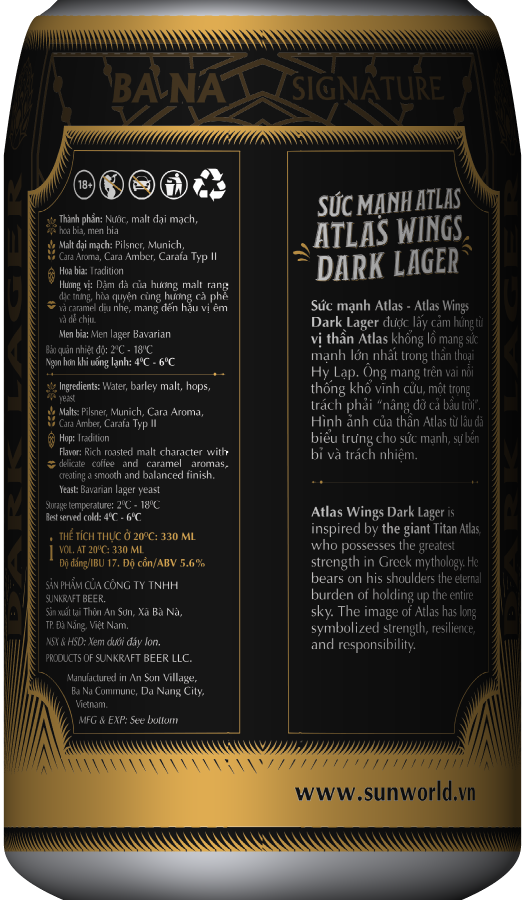
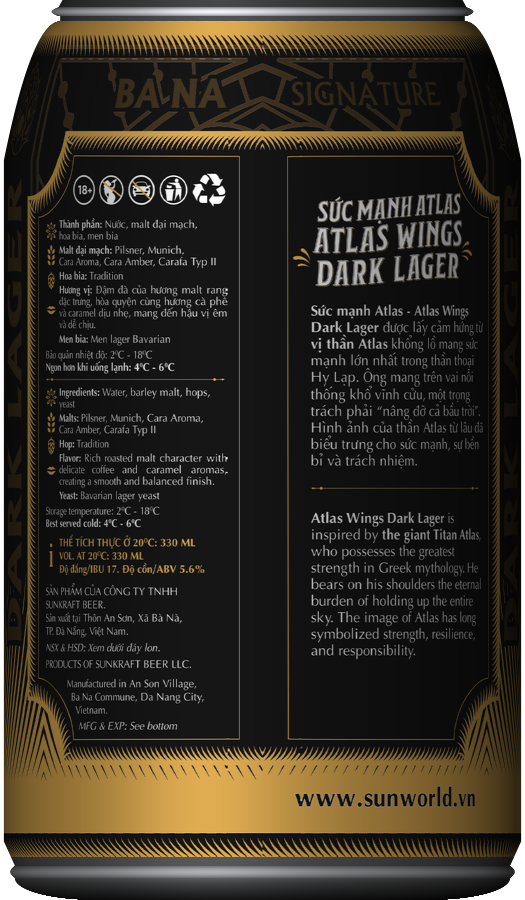
Lon bia: het nhoe o hai hong, dung lai dau va day lon
Khoa chi ra ba cho: dau lon va day lon chang giong lon bia, con hai hong
thi nhoe.

HAI HONG NHOE - lay mau sai chu khong phai thieu do phan giai.
Cang ra men lon, be mat cang nghieng: mot cot diem anh sat men gom toi gan
mot phan tu vong nhan, tuc hang tram cot cua anh goc. Ban truoc cham mot
diem giua khoang do (lay day them 6 mau roi trung binh) nen moi hang trung
mot cho khac nhau - ra vet soc doc lem nhem.
Nay tinh dung hai men goc cua tung diem anh roi lay TRUNG BINH TOAN BO cac
cot nam giua. Lam bang bang cong don theo chieu ngang nen khoang rong bao
nhieu cung chi hai phep tru, khong ton hon cham mot diem. Bo luon buoc dung
anh gap sau lan roi thu nho.

DAU VA DAY LON - truoc chi co nhan va nhom tron nen ra hai khoi xam det.
Nay dung theo dung net cua lon that: mep mieng toi, vanh sang loang, ranh
toi ngan cach vanh voi co; duoi day lat nguoc lai, roi day cuon vao theo mot
cung tron va chim dan vao bong. May dai nay chi day vai milimet nhung chinh
chung lam mat doc ra la cai lon.

Vien lon tinh do phu thang thay vi lay mau day, nen min ca o cho ban kinh
doi dot ngot (ranh mieng, vanh day).

Co lon thop 17,81mm, vanh mieng 26mm tren than 33,1mm - dung ti le lon 330ml.

Changed region(s): [[0.0, 0.0, 1.0, 1.0], [0.579, 0.56, 0.9143, 0.7467]]

diff --git a/scripts/dung-lon-tu-nhan.py b/scripts/dung-lon-tu-nhan.py
@@ -53,7 +53,26 @@ SAI_SO_MM = 1.5
 # Lon 330ml tieu chuan.
 LON_CAO_MM = 115.2
 BAN_KINH_MM = NHAN_RONG_MM / (2 * math.pi)  # 33.1 mm, suy tu chinh chu vi nhan
-NHAN_DINH_MM = 2.0                          # nhan bat dau cach dinh lon 2mm
+
+"""
+MOC CAO DO CUA CAC PHAN TREN LON, tinh tu dinh xuong (mm).
+
+Ban truoc chi co "nhan" va "nhom tron", nen hai dau lon ra hai khoi xam det -
+Khoa noi dung: chang giong lon bia gi ca. Lon that co nhung chi tiet rat nho
+nhung mat nhan ra ngay: mep mieng toi, ngay duoi la vanh sang loang, roi mot
+ranh toi ngan cach vanh voi co lon; duoi day cung vay, mot ranh toi, mot vanh
+sang, roi day lom vao va toi han.
+
+May dai nay chi day vai milimet nhung chinh chung lam cho khoi kim loai doc ra
+la mot cai lon chu khong phai mot ong tru.
+"""
+MEP_MIENG_MM = 0.9      # mep tren cung, nhin nghieng thay toi
+VANH_TREN_MM = 2.1      # vanh mieng sang loang
+RANH_TREN_MM = 2.7      # ranh toi duoi vanh
+NHAN_DINH_MM = 2.7      # nhan bat dau ngay duoi ranh
+NHAN_CUOI_MM = NHAN_DINH_MM + NHAN_CAO_MM   # 109,7
+RANH_DUOI_MM = NHAN_CUOI_MM + 1.1           # ranh toi cuoi than
+VANH_DUOI_MM = RANH_DUOI_MM + 1.6           # vanh day sang
 CO_HET_MM = NHAN_DINH_MM + 17.81            # 17,81mm o co, dung nhu file ghi
 
 # ------------------------------------------------------------------- bong sang
@@ -91,8 +110,6 @@ CA SAU (ba loai bia, moi loai mat truoc va mat sau) truoc khi ai kip bam gi.
 Vy dung 3G thi do la gan nam giay nhin man hinh trong.
 """
 CAO_PX = 900
-SS = 6   # lay mau day them theo chieu ngang, roi thu nho lai
-SSY = 2
 
 PX_MM = CAO_PX / LON_CAO_MM
 BAN_KINH_PX = BAN_KINH_MM * PX_MM
@@ -109,25 +126,42 @@ def ban_kinh_theo_hang(y_mm):
     """
     r = np.full_like(y_mm, BAN_KINH_MM, dtype=np.float64)
 
-    # Vanh mieng lon.
-    m = y_mm < 1.0
-    r[m] = 26.2 + 1.0 * (y_mm[m] / 1.0)
+    # Mep mieng: vanh nhom cuon lai, nho nhat lon.
+    m = y_mm < MEP_MIENG_MM
+    r[m] = 25.6 + 0.5 * (y_mm[m] / MEP_MIENG_MM)
 
-    # Vai lon: no ra rat nhanh tu vanh sang co.
-    m = (y_mm >= 1.0) & (y_mm < NHAN_DINH_MM)
-    t = (y_mm[m] - 1.0) / (NHAN_DINH_MM - 1.0)
-    r[m] = 27.2 + (28.6 - 27.2) * t
+    # Vanh mieng: phinh ra mot chut roi thot lai - do la net cuon cua vanh.
+    m = (y_mm >= MEP_MIENG_MM) & (y_mm < VANH_TREN_MM)
+    t = (y_mm[m] - MEP_MIENG_MM) / (VANH_TREN_MM - MEP_MIENG_MM)
+    r[m] = 26.1 + 0.9 * np.sin(t * math.pi)
+
+    # Ranh duoi vanh: thot vao, cho hep nhat cua ca cai lon.
+    m = (y_mm >= VANH_TREN_MM) & (y_mm < RANH_TREN_MM)
+    r[m] = 25.9
 
     # Co lon: 17,81mm dung nhu file bao bi ghi, no dan ra bang than.
     m = (y_mm >= NHAN_DINH_MM) & (y_mm < CO_HET_MM)
     t = (y_mm[m] - NHAN_DINH_MM) / (CO_HET_MM - NHAN_DINH_MM)
     # Duong cong lom, khong phai duong thang: vai lon that phinh dan.
-    r[m] = 28.6 + (BAN_KINH_MM - 28.6) * np.sqrt(t)
+    r[m] = 25.9 + (BAN_KINH_MM - 25.9) * np.sqrt(t)
 
-    # Day lon.
-    m = y_mm >= 108.0
-    t = np.clip((y_mm[m] - 108.0) / (LON_CAO_MM - 108.0), 0, 1)
-    r[m] = BAN_KINH_MM - (BAN_KINH_MM - 25.5) * (t ** 2.2)
+    # Goc duoi cua than, ngay truoc ranh day.
+    m = (y_mm >= NHAN_CUOI_MM - 2.0) & (y_mm < RANH_DUOI_MM)
+    t = (y_mm[m] - (NHAN_CUOI_MM - 2.0)) / (RANH_DUOI_MM - (NHAN_CUOI_MM - 2.0))
+    r[m] = BAN_KINH_MM - 1.4 * t
+
+    # Ranh day roi vanh day: cung mot net cuon nhu tren mieng, lat nguoc lai.
+    m = (y_mm >= RANH_DUOI_MM) & (y_mm < VANH_DUOI_MM)
+    t = (y_mm[m] - RANH_DUOI_MM) / (VANH_DUOI_MM - RANH_DUOI_MM)
+    r[m] = 31.7 + 0.6 * np.sin(t * math.pi)
+
+    # Day lon lom vao: thot rat nhanh, nen mat doc ra la mat day chu khong
+    # phai lon bi cat cut.
+    m = y_mm >= VANH_DUOI_MM
+    t = np.clip((y_mm[m] - VANH_DUOI_MM) / (LON_CAO_MM - VANH_DUOI_MM), 0, 1)
+    # Cung tron chu khong phai ham mu: ham mu cho ra day gan vuong, con day lon
+    # that cuon vao theo mot cung.
+    r[m] = 31.7 * (1.0 - 0.32 * (1.0 - np.sqrt(np.maximum(0.0, 1.0 - t * t))))
 
     return r
 
@@ -266,56 +300,130 @@ def dung_lon(nhan_rgb, phi):
     a = beta + phi. Nhan la mot vong 360 do nen cot can lay la
     ((a/2pi) + 0.5) mod 1 - cong 0,5 de goc 0 roi vao GIUA o nhan, tuc mat
     truoc cua lon.
+
+    LAY TRUNG BINH CA KHOANG GOC MA MOT DIEM ANH CHE, khong lay mau tai mot
+    diem. Day la cho ban truoc lam sai va sinh ra vet nhoe o hai men.
+
+    Cang ra men lon, be mat cang nghieng: mot cot diem anh o sat men gom toi
+    gan mot phan tu vong nhan, tuc hang tram cot cua anh nhan goc. Cham mot
+    diem giua khoang do thi moi hang lay trung mot cho khac nhau - ra vet soc
+    doc lem nhem, dung thu Khoa goi la "nhoe". Lay day them vai mau roi trung
+    binh cung khong cuu duoc: vai mau tren hang tram cot van la lay bua.
+
+    Cach dung: tinh dung hai men goc cua tung diem anh roi lay TRUNG BINH TOAN
+    BO cac cot nhan nam giua hai men do. Lam bang bang cong don theo chieu
+    ngang nen du khoang rong bao nhieu cung chi hai phep tru - khong ton them
+    gi so voi cham mot diem.
     """
     Hn, Wn = nhan_rgb.shape[:2]
 
-    hs = CAO_PX * SSY
-    ws = RONG_PX * SS
-    y_mm = (np.arange(hs) + 0.5) / hs * LON_CAO_MM
-    r_mm = ban_kinh_theo_hang(y_mm)
-    r_px = (r_mm * PX_MM * SS)[:, None]
+    # ---- 1. Ep anh nhan ve dung so hang no chiem tren lon ----
+    # Lam mot lan bang LANCZOS, thay vi lay bua mot hang cho moi hang man hinh.
+    so_hang_nhan = max(2, int(round(NHAN_CAO_MM * PX_MM)))
+    nhan_hang = np.asarray(
+        Image.fromarray(nhan_rgb).resize(
+            (Wn, so_hang_nhan), Image.Resampling.LANCZOS
+        ),
+        dtype=np.float64,
+    )
 
-    x = (np.arange(ws) + 0.5) - ws / 2.0
-    s = np.clip(x[None, :] / r_px, -1.0, 1.0)
-    trong = np.abs(x[None, :]) <= r_px
+    # ---- 2. Bang cong don theo chieu ngang, de trung binh mot khoang bat ky ----
+    cong_don = np.zeros((so_hang_nhan, Wn + 1, 3), dtype=np.float64)
+    np.cumsum(nhan_hang, axis=1, out=cong_don[:, 1:, :])
+    tong_hang = cong_don[:, -1, :]          # tong ca vong nhan, cho luc vong qua men
 
-    beta = np.arcsin(s)
-    a = beta + phi
-    u = (((a / (2 * math.pi)) + 0.5) % 1.0) * (Wn - 1)
+    # ---- 3. Luoi diem anh dau ra ----
+    y_mm = (np.arange(CAO_PX) + 0.5) / CAO_PX * LON_CAO_MM
+    r_px = (ban_kinh_theo_hang(y_mm) * PX_MM)[:, None]
 
-    # Hang cua nhan: chi phan than lon moi co nhan.
-    v = (y_mm - NHAN_DINH_MM) / NHAN_CAO_MM
-    co_nhan = (v >= 0) & (v <= 1)
-    vi = np.clip((v * (Hn - 1)).astype(np.int32), 0, Hn - 1)
+    x = (np.arange(RONG_PX) + 0.5) - RONG_PX / 2.0
+    x = x[None, :]
 
-    ui = u.astype(np.int32)
-    mau = nhan_rgb[vi[:, None], ui]           # (hs, ws, 3)
+    # Hai men cua tung diem anh, khong phai tam diem anh.
+    s_giua = np.clip(x / r_px, -1.0, 1.0)
+    s_trai = np.clip((x - 0.5) / r_px, -1.0, 1.0)
+    s_phai = np.clip((x + 0.5) / r_px, -1.0, 1.0)
+
+    beta = np.arcsin(s_giua)
+    a_trai = np.arcsin(s_trai) + phi
+    a_phai = np.arcsin(s_phai) + phi
+
+    # Doi ra don vi "cot cua anh nhan".
+    u_trai = (((a_trai / (2 * math.pi)) + 0.5) % 1.0) * Wn
+    rong = (a_phai - a_trai) / (2 * math.pi) * Wn      # luon >= 0
+    u_phai = u_trai + rong
+
+    i0 = np.clip(np.floor(u_trai).astype(np.int64), 0, Wn)
+    i1 = np.clip(np.ceil(u_phai).astype(np.int64), 0, 2 * Wn)
+    # Khoang hep hon mot cot thi van phai lay tron mot cot.
+    i1 = np.maximum(i1, i0 + 1)
+
+    hang = np.clip(
+        ((y_mm - NHAN_DINH_MM) / NHAN_CAO_MM * (so_hang_nhan - 1)),
+        0,
+        so_hang_nhan - 1,
+    ).astype(np.int64)[:, None]
+    hang = np.broadcast_to(hang, i0.shape)
+
+    vong = i1 > Wn                                    # khoang vat qua men phai
+    i1_kep = np.where(vong, Wn, i1)
+    i1_du = np.where(vong, i1 - Wn, 0)
+
+    tong = cong_don[hang, i1_kep] - cong_don[hang, i0]
+    tong = tong + np.where(
+        vong[..., None], cong_don[hang, i1_du] - cong_don[hang, 0], 0.0
+    )
+    dem = (i1_kep - i0) + i1_du
+    mau = tong / dem[..., None]
+
+    # ---- 4. Vanh mieng va day lon: khong co nhan, la nhom tran ----
+    co_nhan = (y_mm >= NHAN_DINH_MM) & (y_mm <= NHAN_CUOI_MM)
+    nhom = np.array([206, 208, 213], dtype=np.float64)
+    mau = np.where(co_nhan[:, None, None], mau, nhom)
 
     """
-    VANH MIENG VA DAY LON.
+    DAI TOI VA DAI SANG O HAI DAU.
 
-    Hai phan nay khong co nhan. De mau nhom tron mot mau thi ra hai khoi xam
-    det, nhin nhu lon bi cat cut. Them mot dai toi dan ve sat mep tren va mep
-    duoi thi mat doc ra ngay la vanh tron nhin hoi cheo.
+    Chi doi ban kinh thoi thi hai dau van la hai khoi xam det. Lon that co mot
+    mep toi o tren cung, mot vanh sang ngay duoi, mot ranh toi ngan cach vanh
+    voi co - va o day thi dung nhu vay lat nguoc. May dai nay chi day vai
+    milimet nhung chinh chung lam mat doc ra day la cai lon.
     """
-    nhom = np.array([198, 200, 206], dtype=np.float64)
-    mau = np.where(co_nhan[:, None, None], mau.astype(np.float64), nhom)
-
     doc = np.ones_like(y_mm)
-    m = y_mm < NHAN_DINH_MM                       # vanh mieng
-    doc[m] = 0.52 + 0.48 * (y_mm[m] / NHAN_DINH_MM)
-    m = y_mm > 109.0                              # day lon
-    t = np.clip((y_mm[m] - 109.0) / (LON_CAO_MM - 109.0), 0, 1)
-    doc[m] = 1.0 - 0.55 * (t ** 1.6)
+
+    m = y_mm < MEP_MIENG_MM                                   # mep mieng
+    doc[m] = 0.34
+    m = (y_mm >= MEP_MIENG_MM) & (y_mm < VANH_TREN_MM)        # vanh sang
+    t = (y_mm[m] - MEP_MIENG_MM) / (VANH_TREN_MM - MEP_MIENG_MM)
+    doc[m] = 0.62 + 0.55 * np.sin(t * math.pi)
+    m = (y_mm >= VANH_TREN_MM) & (y_mm < RANH_TREN_MM)        # ranh toi
+    doc[m] = 0.40
+
+    m = (y_mm > NHAN_CUOI_MM) & (y_mm <= RANH_DUOI_MM)        # ranh toi cuoi than
+    doc[m] = 0.42
+    m = (y_mm > RANH_DUOI_MM) & (y_mm <= VANH_DUOI_MM)        # vanh day sang
+    t = (y_mm[m] - RANH_DUOI_MM) / (VANH_DUOI_MM - RANH_DUOI_MM)
+    # Bot choi so voi vanh mieng: day lon huong xuong nen it don anh sang hon.
+    doc[m] = 0.50 + 0.34 * np.sin(t * math.pi)
+    m = y_mm > VANH_DUOI_MM                                   # day lom, toi han
+    t = np.clip((y_mm[m] - VANH_DUOI_MM) / (LON_CAO_MM - VANH_DUOI_MM), 0, 1)
+    # Toi nhanh dan: mep duoi cung gan nhu chim han vao bong, nho vay lon co ve
+    # dat tren mot mat phang chu khong lo lung.
+    doc[m] = 0.46 - 0.36 * (t ** 0.7)
 
     sang = (do_sang(beta) * doc[:, None])[:, :, None]
     rgb = np.clip(mau * sang, 0, 255)
 
-    alpha = np.where(trong, 255.0, 0.0)
+    """
+    VIEN LON: do phu tinh thang, khong lay mau day them.
 
-    # Thu nho lai: vien lon va cho nen sat mep tu min di, khong con rang cua.
-    rgb = rgb.reshape(CAO_PX, SSY, RONG_PX, SS, 3).mean(axis=(1, 3))
-    alpha = alpha.reshape(CAO_PX, SSY, RONG_PX, SS).mean(axis=(1, 3))
+    Mot diem anh nam vat qua men lon thi chi phu mot phan. Tinh thang phan ay
+    ra do duc thi vien min tuyet doi, ma khong phai dung anh lon gap sau lan
+    roi thu nho - vua nhanh hon vua khong con vet rang cua o cho ban kinh doi
+    dot ngot (ranh mieng, vanh day).
+    """
+    phu = np.clip(r_px - np.abs(x) + 0.5, 0.0, 1.0)
+    alpha = phu * 255.0
 
     ra = np.zeros((CAO_PX, RONG_PX, 4), dtype=np.uint8)
     ra[..., :3] = np.round(rgb).astype(np.uint8)
